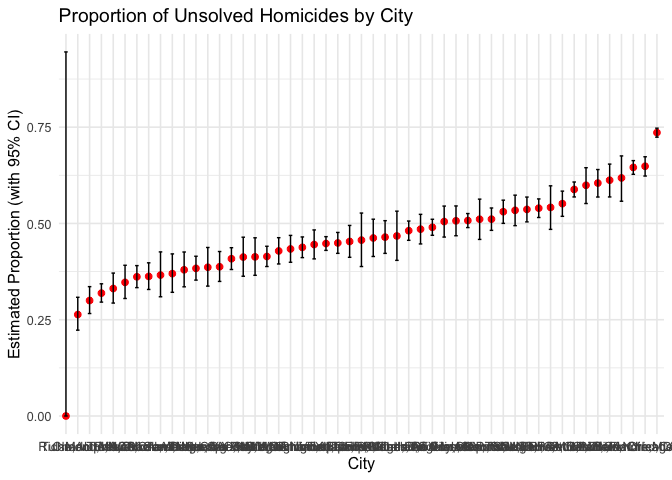
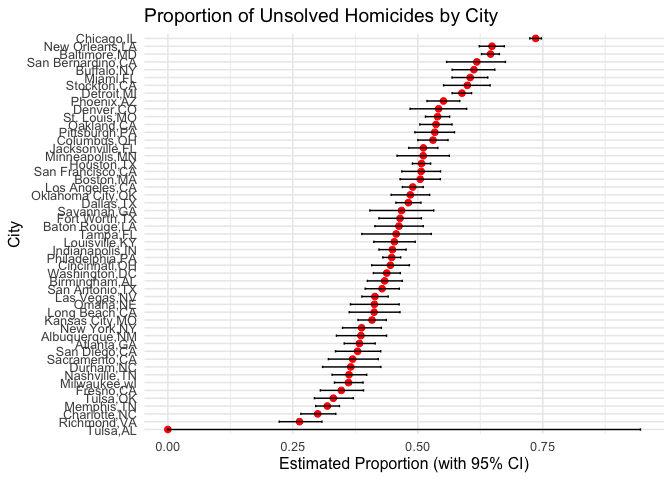
add a tibble to Problem 3 and change the x and y for the final plot

Changed region(s): [[0.0, 0.0, 1.0, 1.0]]

diff --git a/p8105_hw5_ml5363.md b/p8105_hw5_ml5363.md
@@ -80,16 +80,16 @@ sim_result|>
     ## # A tibble: 5,000 × 2
     ##    estimate p.value
     ##       <dbl>   <dbl>
-    ##  1  -1.08    0.245 
-    ##  2  -0.0228  0.975 
-    ##  3  -0.821   0.373 
-    ##  4   0.507   0.602 
-    ##  5  -1.20    0.201 
-    ##  6   1.63    0.0653
-    ##  7  -0.351   0.651 
-    ##  8  -0.125   0.876 
-    ##  9   0.360   0.743 
-    ## 10  -0.454   0.452 
+    ##  1   0.182   0.880 
+    ##  2  -0.605   0.464 
+    ##  3  -0.153   0.888 
+    ##  4   0.309   0.747 
+    ##  5   0.231   0.818 
+    ##  6  -1.90    0.0208
+    ##  7   1.61    0.0433
+    ##  8  -2.06    0.0554
+    ##  9  -0.351   0.730 
+    ## 10   0.0374  0.972 
     ## # ℹ 4,990 more rows
 
 for mean=1,2,3,4,5,6
@@ -255,7 +255,7 @@ prop.test(1825,2827)|>
 
 ``` r
 source("prop_test.R")
-new=prop_test("Baltimore,MD")
+
 
 
 city_name_homicides=
@@ -280,7 +280,24 @@ prop_test_all=
 
 ``` r
 prop_test_all=select(prop_test_all,city_state, prop, estimate,conf.low, conf.high)
+
+prop_test_all
 ```
+
+    ## # A tibble: 51 × 5
+    ##    city_state      prop estimate conf.low conf.high
+    ##    <chr>          <dbl>    <dbl>    <dbl>     <dbl>
+    ##  1 Albuquerque,NM 0.386    0.386    0.337     0.438
+    ##  2 Atlanta,GA     0.383    0.383    0.353     0.415
+    ##  3 Baltimore,MD   0.646    0.646    0.628     0.663
+    ##  4 Baton Rouge,LA 0.462    0.462    0.414     0.511
+    ##  5 Birmingham,AL  0.434    0.434    0.399     0.469
+    ##  6 Boston,MA      0.505    0.505    0.465     0.545
+    ##  7 Buffalo,NY     0.612    0.612    0.569     0.654
+    ##  8 Charlotte,NC   0.300    0.300    0.266     0.336
+    ##  9 Chicago,IL     0.736    0.736    0.724     0.747
+    ## 10 Cincinnati,OH  0.445    0.445    0.408     0.483
+    ## # ℹ 41 more rows
 
 ``` r
 prop_test_all=
@@ -291,7 +308,7 @@ prop_test_all=
 ggplot(prop_test_all, aes(x = city_state, y = estimate)) +
   geom_point(color = "red", size = 2) +  
   geom_errorbar(aes(ymin = conf.low, ymax = conf.high), width = 0.3) +
-                              
+  coord_flip() +                            
   labs(
     title = "Proportion of Unsolved Homicides by City",
     x = "City",
